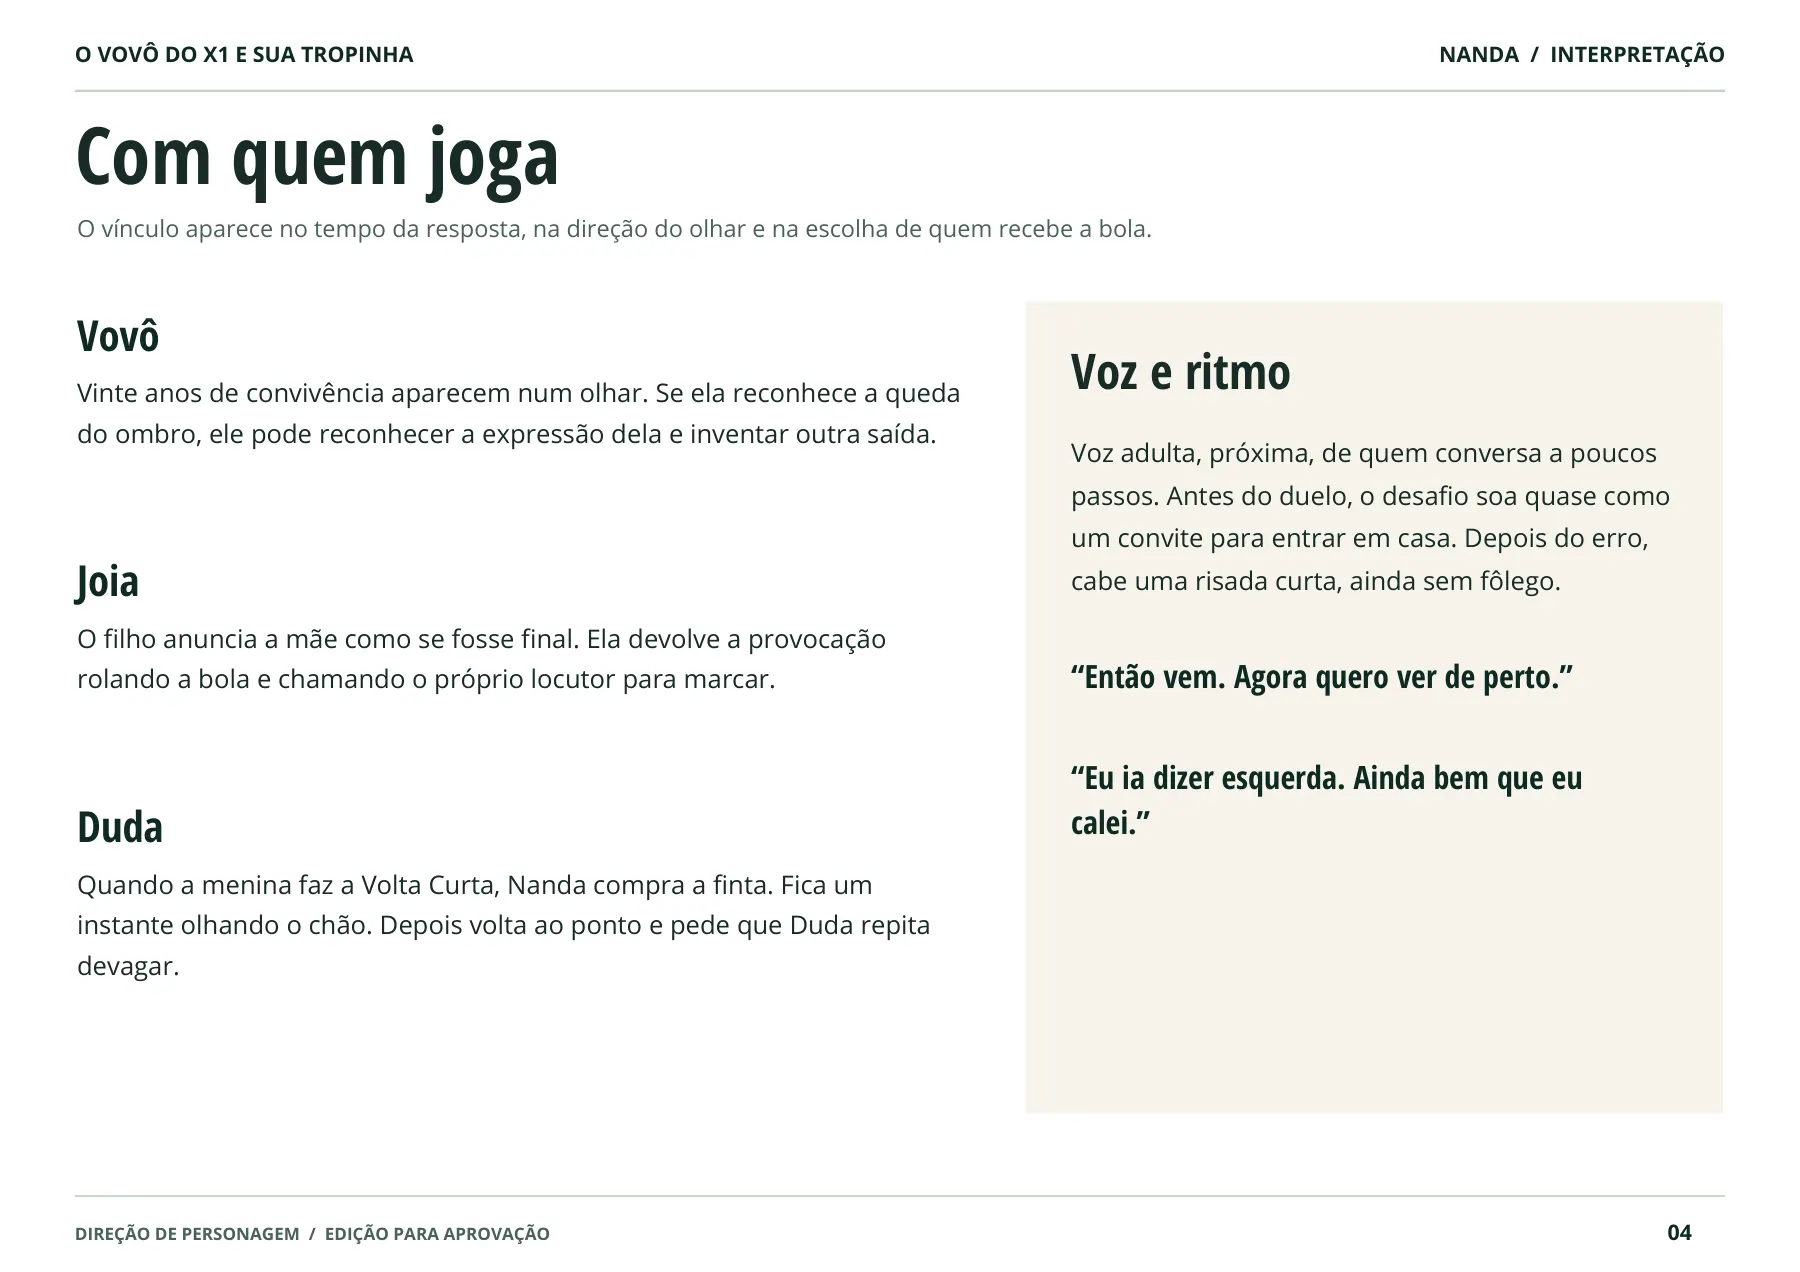
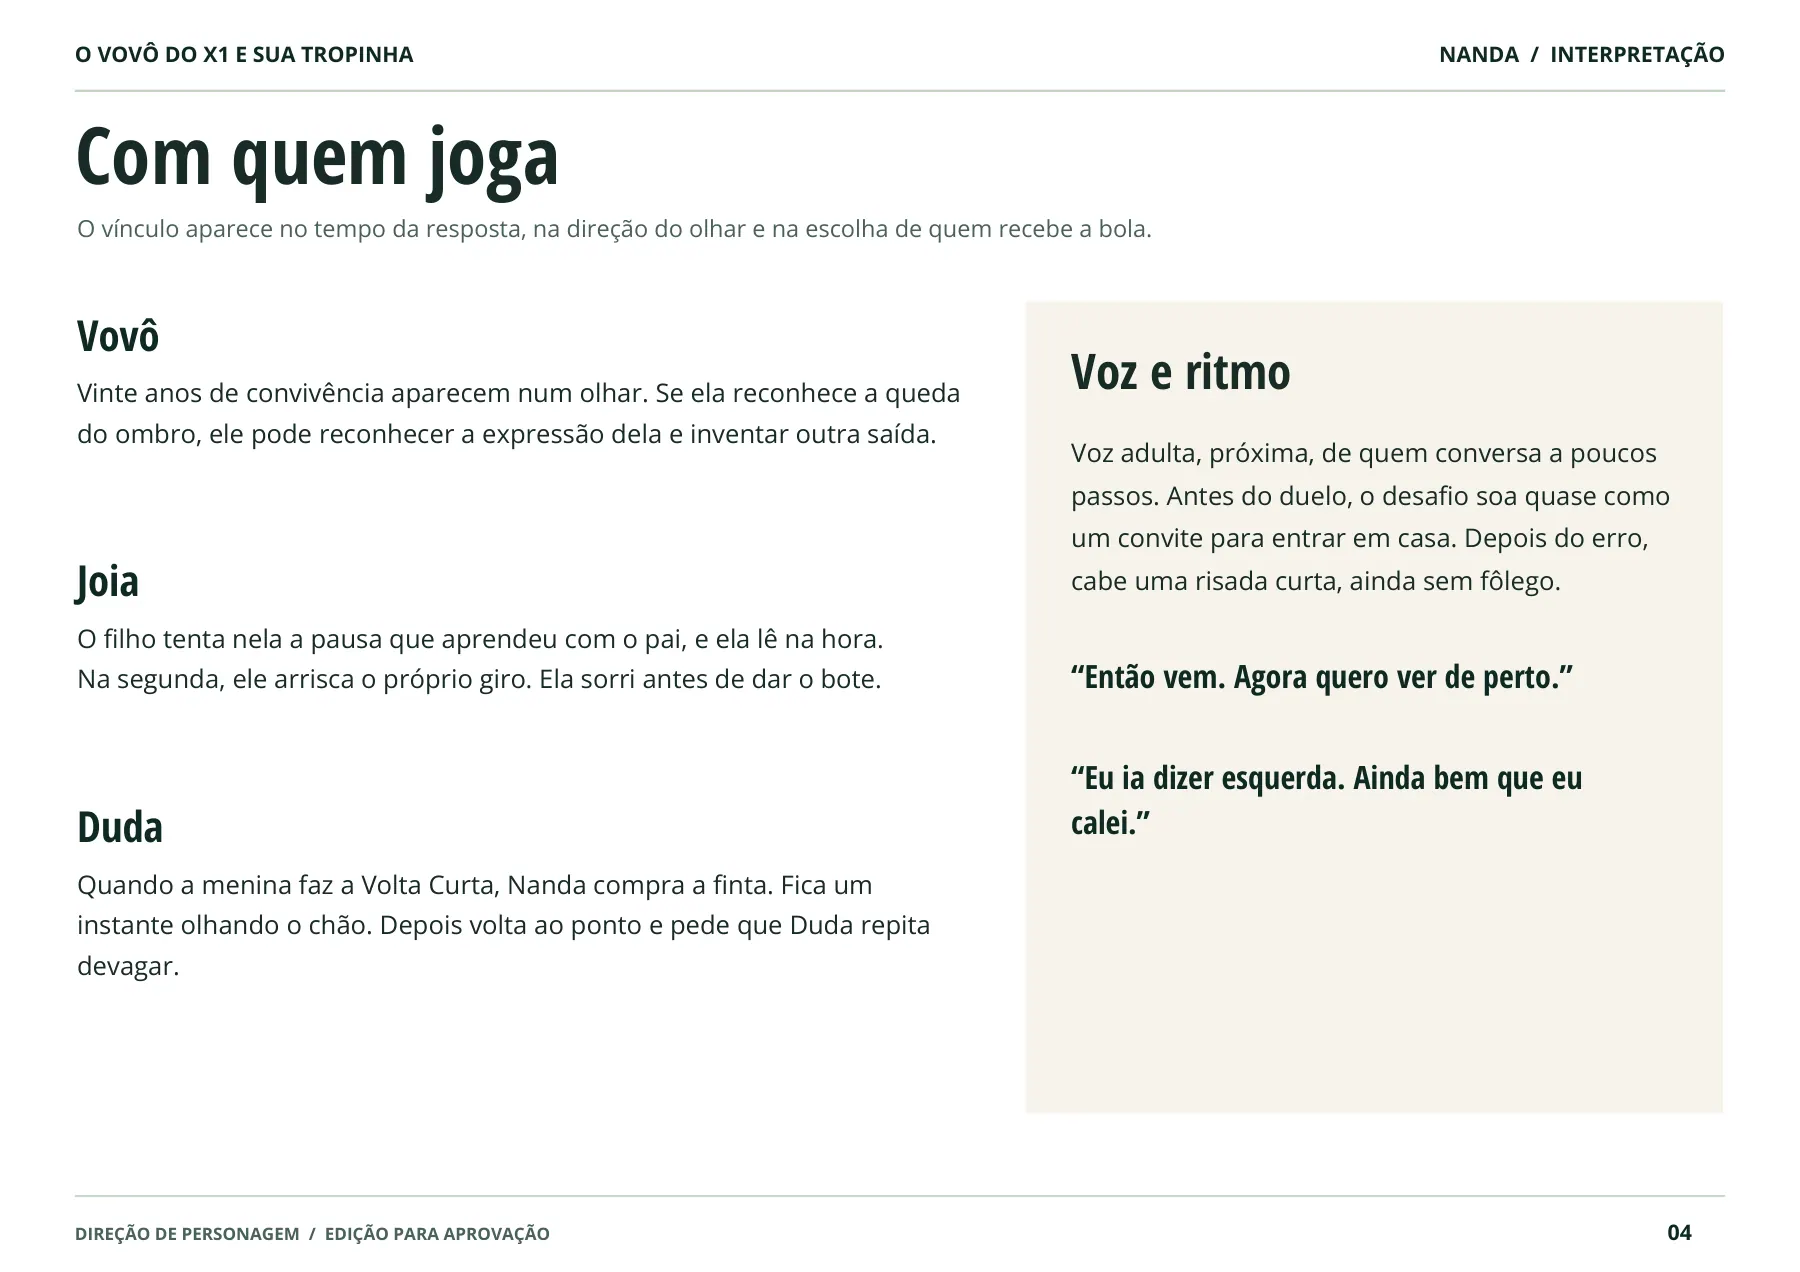
Revista: Joia nos capítulos da Nanda e da Val
As duas páginas 'Com quem joga' tratavam o Joia como locutor. Agora
seguem o resto do material: o filho que se espelha no pai.

Changed region(s): [[0.0311, 0.4906, 0.4978, 0.5519]]

diff --git a/ferramentas/reescrever_joia.py b/ferramentas/reescrever_joia.py
@@ -4,6 +4,8 @@ e quer ser um grande jogador. Sai o "narrador da quadra".
 Não mexe nos originais: lê origem/<nome>.pdf e grava origem/<nome>_v02.pdf.
 O texto antigo é removido do PDF (sem pintar por cima) e o novo entra com a mesma fonte, corpo, cor e entrelinha.
 Rodar:  uv run --no-project --with pymupdf --with fonttools python ferramentas/reescrever_joia.py
+        (para refazer só alguns livros, passe parte do nome: ... reescrever_joia.py Nanda Val)
+Os books da Nanda e da Val usam Open Sans; os demais, Barlow. As fontes ficam em ferramentas/fontes/.
 """
 import pathlib, sys
 import pymupdf
@@ -11,7 +13,8 @@ import pymupdf
 RAIZ = pathlib.Path(__file__).resolve().parent.parent
 ORIG, FONTES = RAIZ / "origem", RAIZ / "ferramentas" / "fontes"
 ARQ = {"Barlow-Regular": "Barlow-Regular.ttf", "Barlow-SemiBold": "Barlow-SemiBold.ttf", "Barlow-Italic": "Barlow-Italic.ttf",
-       "BarlowCondensed-ExtraBol": "BarlowCondensed-ExtraBold.ttf", "BarlowCondensed-ExtraBold": "BarlowCondensed-ExtraBold.ttf"}
+       "BarlowCondensed-ExtraBol": "BarlowCondensed-ExtraBold.ttf", "BarlowCondensed-ExtraBold": "BarlowCondensed-ExtraBold.ttf",
+       "OpenSans": "OpenSans-Regular.ttf"}
 FONTE = {k: pymupdf.Font(fontfile=str(FONTES / v)) for k, v in ARQ.items()}
 
 JOIA = [
@@ -57,7 +60,14 @@ ELENCO = [
 VOVO = [
     (5, "Fazer o marcador pisar", "Fazer o marcador pisar para o lado errado. Consegue esperar com a sola parada mesmo quando Joia já começou a comemorar o gol. Às vezes espera um toque a mais e perde a bola."),
 ]
-LIVROS = [("Book_individual_Joia", JOIA), ("O_Vovo_do_X1_e_sua_Tropinha_Book_do_Elenco_VFINAL", ELENCO), ("Book_individual_Vovo_do_X1", VOVO)]
+NANDA = [
+    (4, "O filho anuncia a mãe", "O filho tenta nela a pausa que aprendeu com o pai, e ela lê na hora. Na segunda, ele arrisca o próprio giro. Ela sorri antes de dar o bote."),
+]
+VAL = [
+    (4, "Ele troca o grito de gol", "Ele já comemorava o gol quando ela fechou o canto. Joia baixa os braços e aplaude. Val dá uma reverência curta com as luvas e já se vira para a reposição."),
+]
+LIVROS = [("Book_individual_Joia", JOIA), ("O_Vovo_do_X1_e_sua_Tropinha_Book_do_Elenco_VFINAL", ELENCO), ("Book_individual_Vovo_do_X1", VOVO),
+          ("Book_individual_Nanda", NANDA), ("Book_individual_Val", VAL)]
 
 
 def linhas(pg):
@@ -106,7 +116,9 @@ def trocar(pg, ancora, novo):
 
 
 def main():
+    so = sys.argv[1:]                                # opcional: só os livros cujo nome contém um destes termos
     for nome, lista in LIVROS:
+        if so and not any(t.lower() in nome.lower() for t in so): continue
         doc = pymupdf.open(ORIG / f"{nome}.pdf")
         for num in sorted({p for p, _, _ in lista}):
             pg = doc[num - 1]

diff --git a/ferramentas/extrair.py b/ferramentas/extrair.py
@@ -17,11 +17,11 @@ ORIG, ASSETS, DATA = RAIZ / "origem", RAIZ / "assets", RAIZ / "data"
 LIVROS = [
     ("elenco", "O_Vovo_do_X1_e_sua_Tropinha_Book_do_Elenco_v02", "O elenco"),
     ("vovo", "Book_individual_Vovo_do_X1_v02", "Vovô do X1"),
-    ("nanda", "Book_individual_Nanda", "Nanda"),
+    ("nanda", "Book_individual_Nanda_v02", "Nanda"),
     ("joia", "Book_individual_Joia_v02", "Joia"),
     ("duda", "Book_individual_Duda", "Duda"),
     ("prancheta", "Book_individual_Prancheta", "Prancheta"),
-    ("val", "Book_individual_Val", "Val"),
+    ("val", "Book_individual_Val_v02", "Val"),
     ("topete", "Book_individual_Topete", "Topete"),
 ]
 LARG, ALT = 1800, 1272          # tela única da revista (proporção A4 paisagem)
